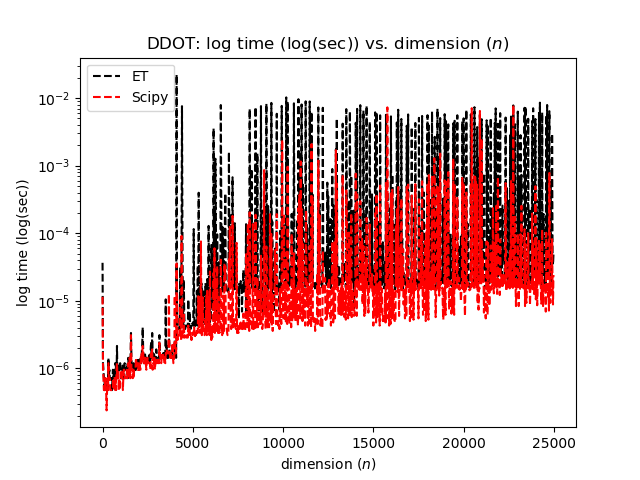
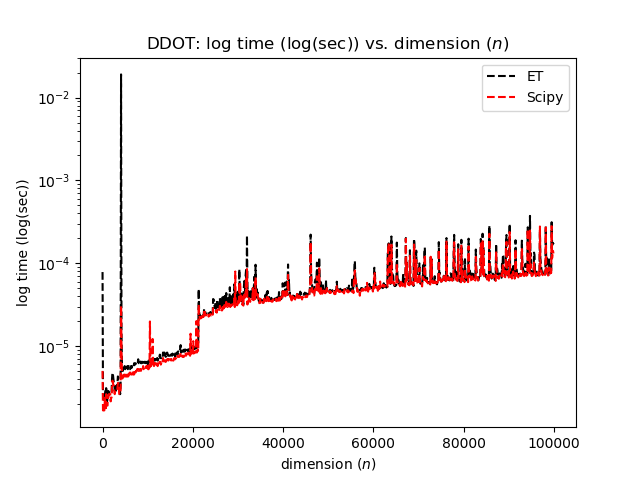
more tests of BLAS level one.

diff --git a/tests/vector/ddot_speed_test.py b/tests/vector/ddot_speed_test.py
@@ -37,7 +37,7 @@ for i in range(num_iters):
     scipy_times.append(end - start)
 
     dims.append(N)
-    N += 25
+    N += 100
 
 #   plot the results
 fig, axs = plt.subplots()
